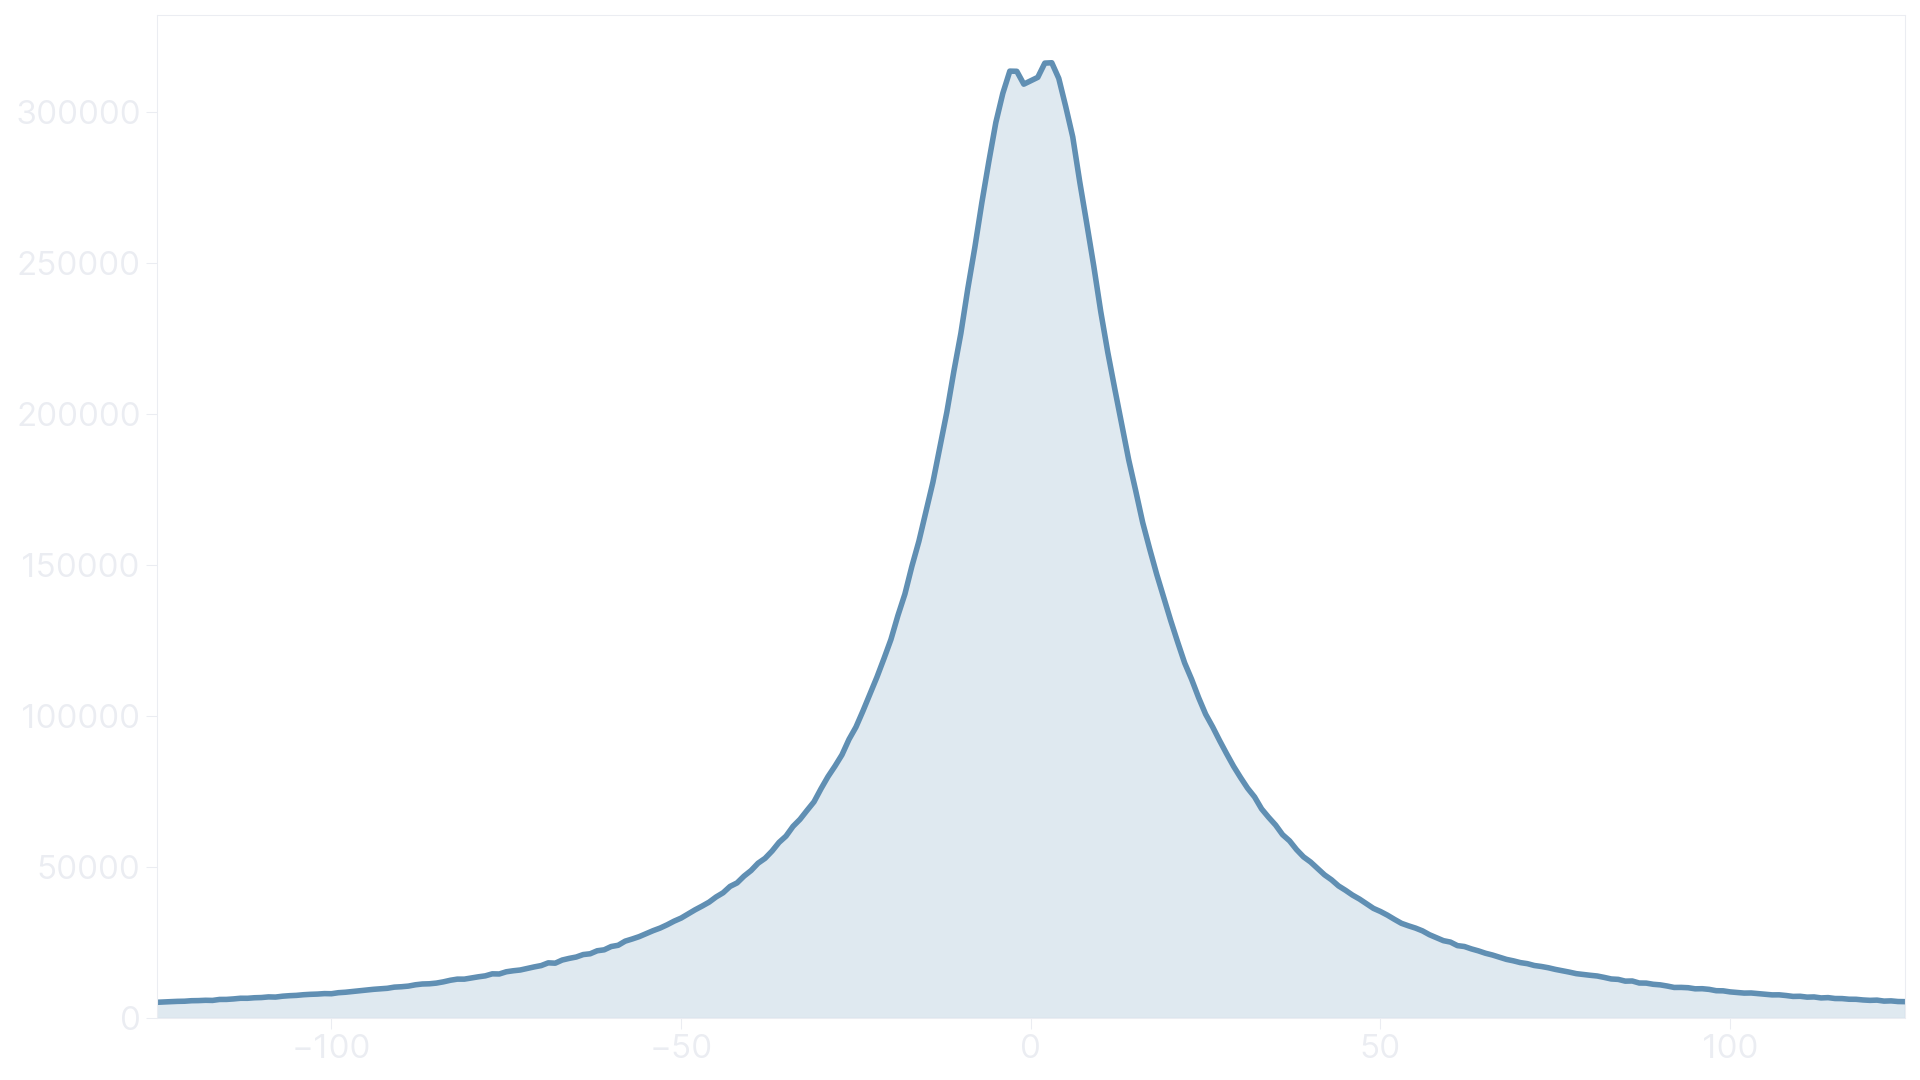
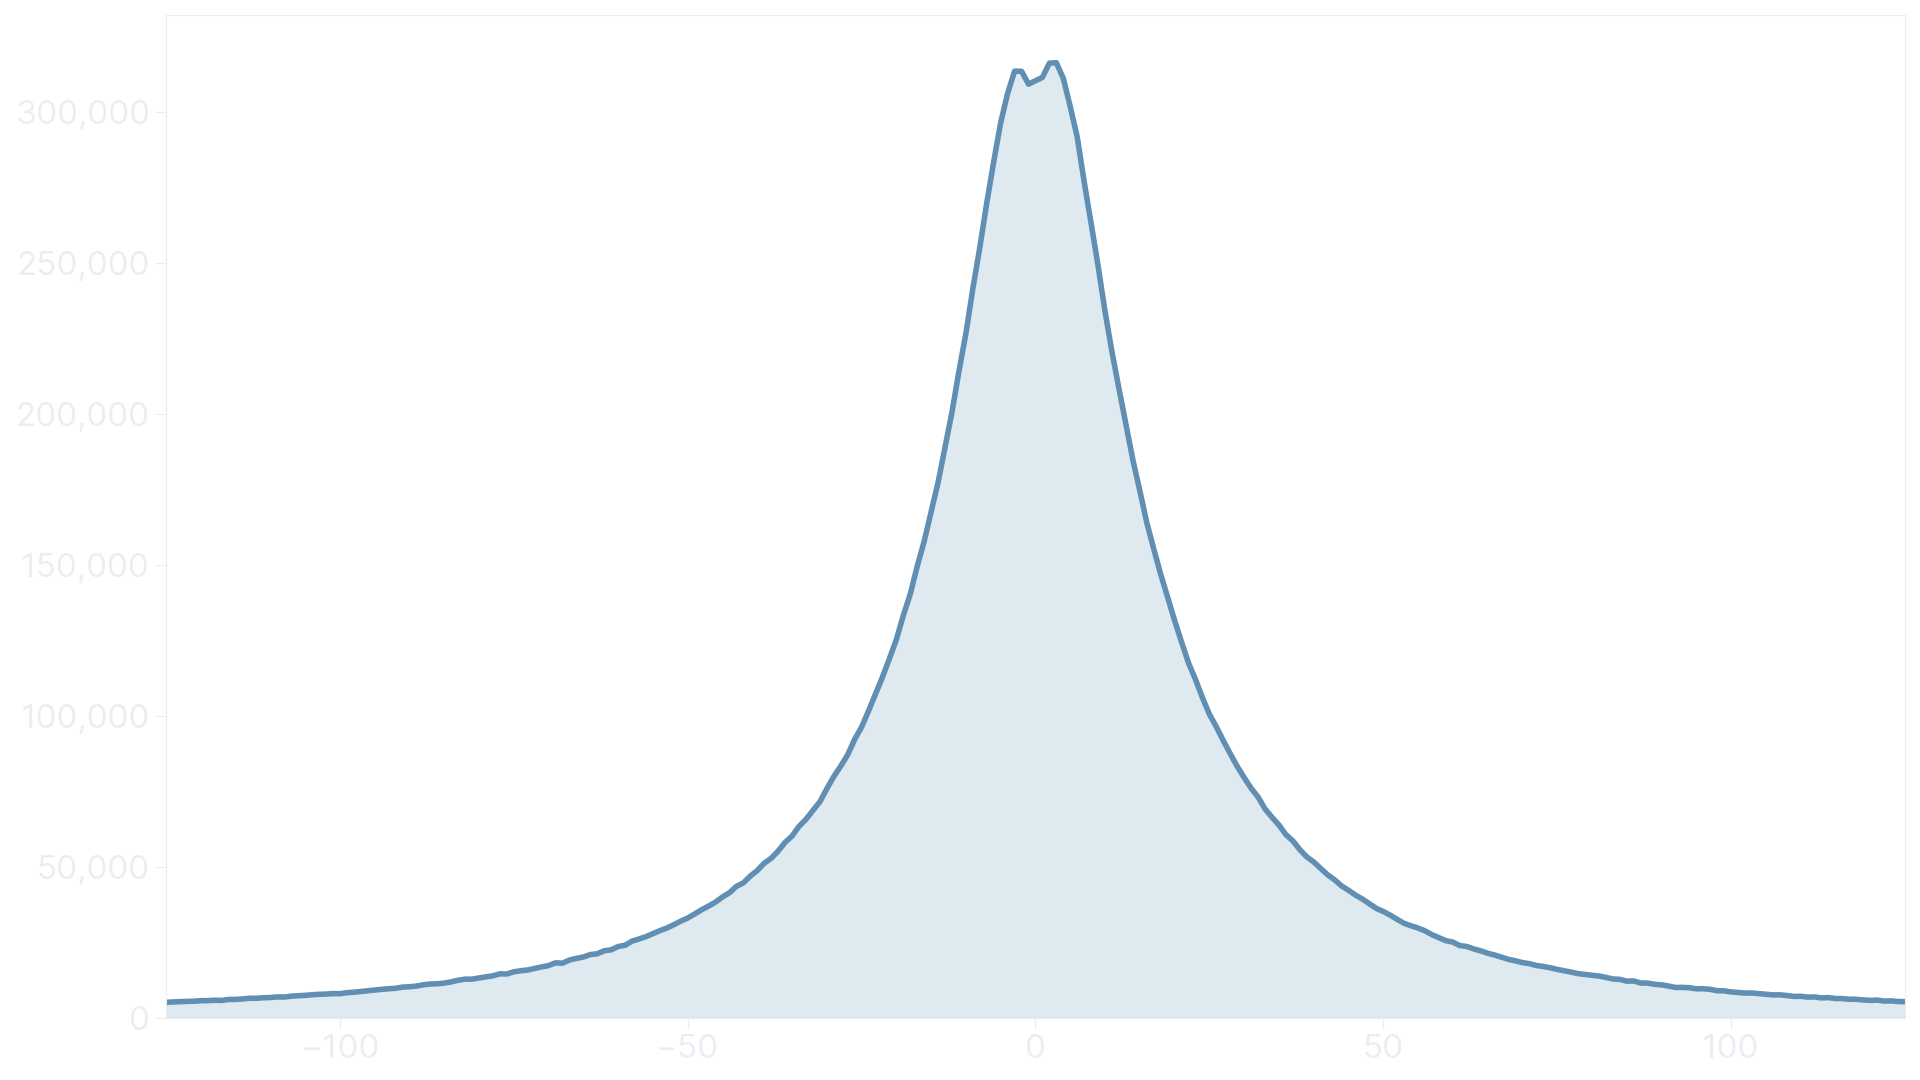
wip coordinate compression

diff --git a/content/posts/coordinate-compression/src/py/main.py b/content/posts/coordinate-compression/src/py/main.py
@@ -1,5 +1,6 @@
 import json
 import matplotlib.pyplot as plt
+from matplotlib.ticker import StrMethodFormatter
 
 plt.rcParams["font.family"] = "Inter"
 
@@ -31,6 +32,7 @@ def main():
 
     axes.set_xlim(-WINDOW, WINDOW)
     axes.set_ylim(bottom=0)
+    axes.yaxis.set_major_formatter(StrMethodFormatter("{x:,.0f}"))
     axes.tick_params(colors=COLOR_SHADE_1, length=8, labelsize=24)
 
     for spine in axes.spines.values():

diff --git a/content/posts/coordinate-compression/index.md b/content/posts/coordinate-compression/index.md
@@ -58,7 +58,7 @@ I chose the 0.5 meters tolerance because it still looks smooth and close to the 
 239,784 KB -> 196,512 KB
 
 ## Precision
-The second lossy compression step concerns the [coordinate precision](https://wiki.openstreetmap.org/wiki/Precision_of_coordinates). More decimal places mean higher precision, but also more data. The following relation of between decimal places and precision applies to latitudes:
+The second lossy compression step concerns the [coordinate precision](https://wiki.openstreetmap.org/wiki/Precision_of_coordinates). More decimal places mean higher precision, but also more data. The following relation between decimal places and precision applies to latitudes:
 
 | DD.dddddd° | Decimal places | DD°MM'SS.ssss" | Meters   |
 | ---------- | -------------- | -------------- | -------- |
@@ -72,15 +72,7 @@ The second lossy compression step concerns the [coordinate precision](https://wi
 | 0.0000001° | 7              | 0°00'00.0004"  | 0.011112 |
 {.tabular-nums}
 
-Longitudes have the same precision at the equator and get more accurate closer to the poles.
-
-```js
-function precision(coordinate) {
-  return Math.round(coordinate * 1e5);
-}
-```
-
-The obvious choice here is five decimal places, because it's neither too coarse nor too fine.
+Longitudes have the same precision at the equator and get more accurate closer to the poles, because the distance between meridians decreases. So the values in the table above are the worst case in terms of precision. The obvious choice here is five decimal places, because it's neither too coarse nor too fine.
 
 ```js
 [
@@ -107,14 +99,14 @@ function offset(coordinates) {
   });
 }
 ```
-The offset is calculated across polylines boundaries, so the offset of a polyline's first coordinates is calculated by using the previous polyline's last coordinate. That means the actual order of polylines is important too. There are four options to do that:
+They are calculated across polyline boundaries. For the offset of a polyline's first coordinate, the previous polyline's last coordinate is used. As a result, the order of polylines has a minor influence on compression. There are four options to sort them:
 
 1. Random
 2. Sort query output by quad tile `out qt;`
 3. Sort polylines by nearest neighbor
 4. Sort polylines optimally
 
-Option four is impossible for our data size, because it resembles the infamous [traveling salesman problem](https://en.wikipedia.org/wiki/Travelling_salesman_problem) and is thus NP-hard. The second best option, sorting by nearest neighbors, yields a [minor compression improvement](https://github.com/jsmolka/poi/commit/1ffb6adfa8fea924f4425c73d0883f76834c2a26) compared to the others.
+Option four is impossible for the data size, because it resembles the infamous [traveling salesman problem](https://en.wikipedia.org/wiki/Travelling_salesman_problem) and thus is NP-hard. The second best option, sorting by nearest neighbors, yields a [minor compression improvement](https://github.com/jsmolka/poi/commit/1ffb6adfa8fea924f4425c73d0883f76834c2a26) compared to the others and also takes some load off the Overpass server because it doesn't need to sort.
 
 ```js
 [
@@ -128,13 +120,11 @@ Option four is impossible for our data size, because it resembles the infamous [
 148,188 KB -> 72,932 KB
 
 ## Zigzag
-This step acts as preparation for the next one. We need to convert signed integers to unsigned ones while preserving a one-to-one mapping. To achieve that, we use the zigzag algorithm. If the offset is positive we zig `offset * 2 `, otherwise we zag `offset * 2 - 1`.
+This step acts as preparation for the last one. We need to convert signed integers to unsigned ones while preserving a one-to-one mapping. To achieve that, we use the zigzag algorithm. If the offset is positive we zig `offset * 2 `, otherwise we zag `-offset * 2 - 1`.
 
 ```js
 function zigzag(offset) {
-  return offset >= 0
-    ? +offset * 2
-    : -offset * 2 - 1;
+  return offset >= 0 ? offset * 2 : -offset * 2 - 1;
 }
 ```
 
@@ -168,8 +158,10 @@ function writeVarint(out, value) {
 
 We also need to include the line's length in the encoded data. Otherwise we wouldn't know when they start or stop once we get to decoding.
 
+<!-- Todo: sequential with 0 lng/lat: calculation -->
+
 ```js
-0x0b,                   // Length
+0x04,                   // Length
 0xe0, 0x03, 0xc8, 0x05, // [(480 & 0x7f) | 0x80, (480 >> 7) & 0x7f, ...]
 0x8f, 0x01, 0x25,       // [(143 & 0x7f) | 0x80, (143 >> 7) & 0x7f, ...]
 0x59,       0x1d,       // [89 & 0x7f, ...]
